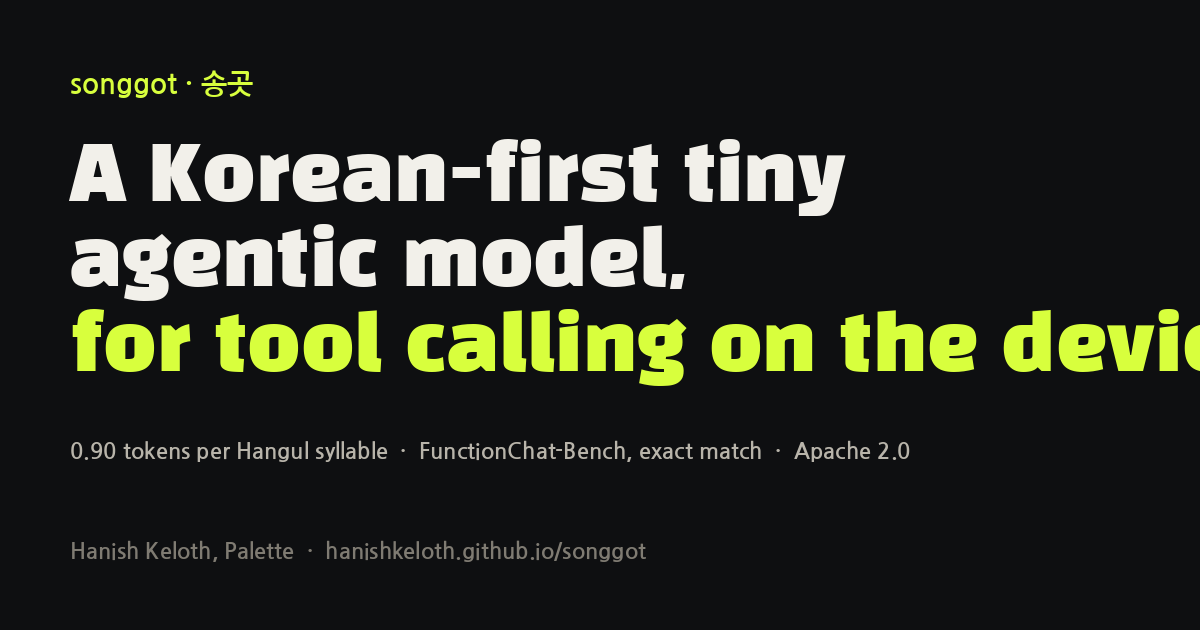
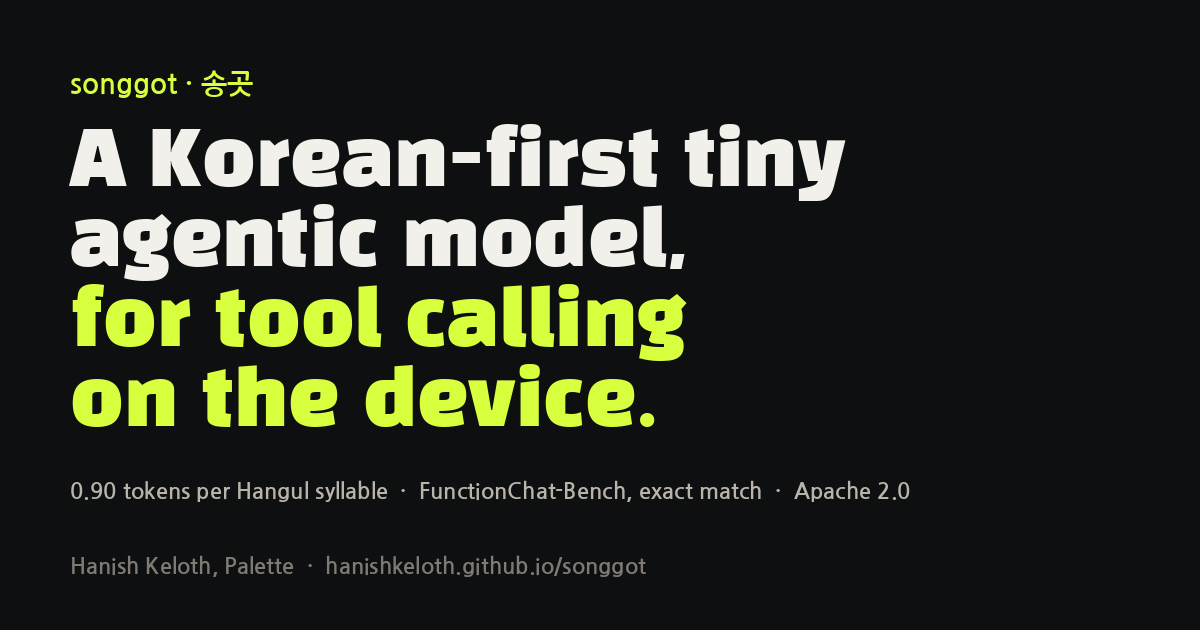
OG image layout

Changed region(s): [[0.0617, 0.181, 1.0, 0.8143], [0.2775, 0.8444, 0.555, 0.9349], [0.0617, 0.8444, 0.2467, 0.9349]]

diff --git a/site/build.py b/site/build.py
@@ -139,9 +139,10 @@ try:
     im = Image.new("RGB", (1200, 630), (14, 15, 17)); d = ImageDraw.Draw(im)
     fb = ImageFont.truetype(str(fonts / "BlackHanSans-Regular.ttf"), 76); fs = ImageFont.truetype(str(fonts / "NanumGothic-Bold.ttf"), 28); fm = ImageFont.truetype(str(fonts / "NanumGothic-Bold.ttf"), 22)
     d.text((70, 70), "songgot · 송곳", font=fs, fill=(216, 255, 61))
-    d.text((70, 140), "A Korean-first tiny", font=fb, fill=(242, 240, 234)); d.text((70, 225), "agentic model,", font=fb, fill=(242, 240, 234)); d.text((70, 310), "for tool calling on the device.", font=fb, fill=(216, 255, 61))
-    d.text((70, 440), "0.90 tokens per Hangul syllable  ·  FunctionChat-Bench, exact match  ·  Apache 2.0", font=fm, fill=(184, 180, 170))
-    d.text((70, 540), "Hanish Keloth, Palette  ·  hanishkeloth.github.io/songgot", font=fm, fill=(127, 123, 114))
+    d.text((70, 125), "A Korean-first tiny", font=fb, fill=(242, 240, 234)); d.text((70, 205), "agentic model,", font=fb, fill=(242, 240, 234))
+    d.text((70, 285), "for tool calling", font=fb, fill=(216, 255, 61)); d.text((70, 365), "on the device.", font=fb, fill=(216, 255, 61))
+    d.text((70, 480), "0.90 tokens per Hangul syllable  ·  FunctionChat-Bench, exact match  ·  Apache 2.0", font=fm, fill=(184, 180, 170))
+    d.text((70, 555), "Hanish Keloth, Palette  ·  hanishkeloth.github.io/songgot", font=fm, fill=(127, 123, 114))
     im.save(DOCS / "og.png")
 except Exception as e:
     print("og.png skipped:", e)
